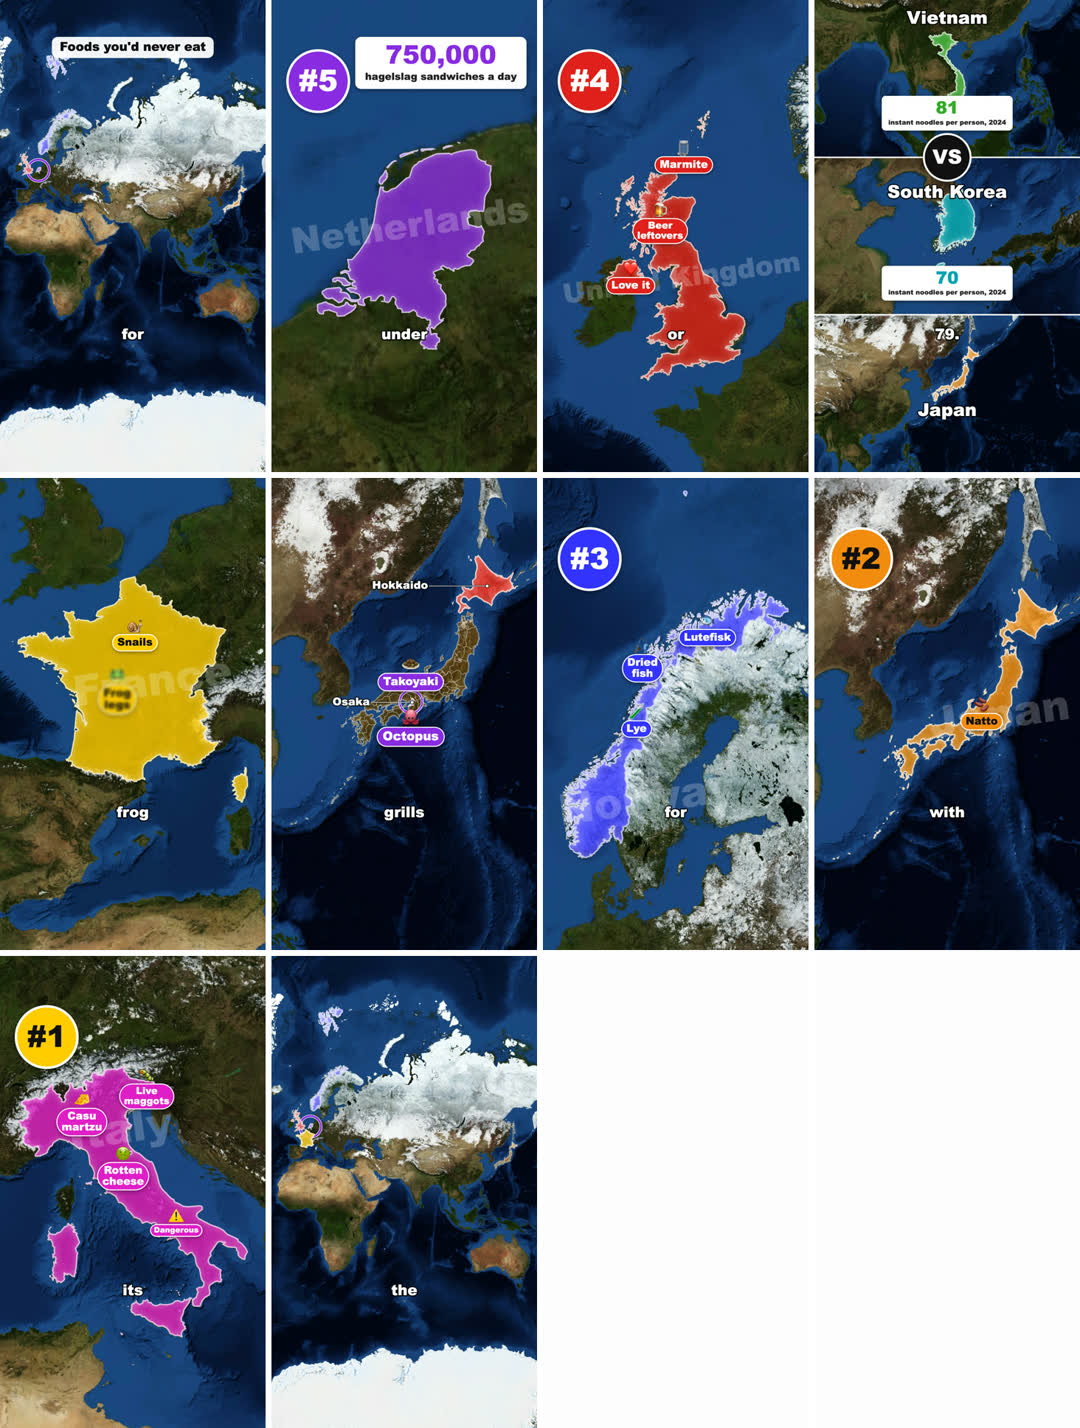
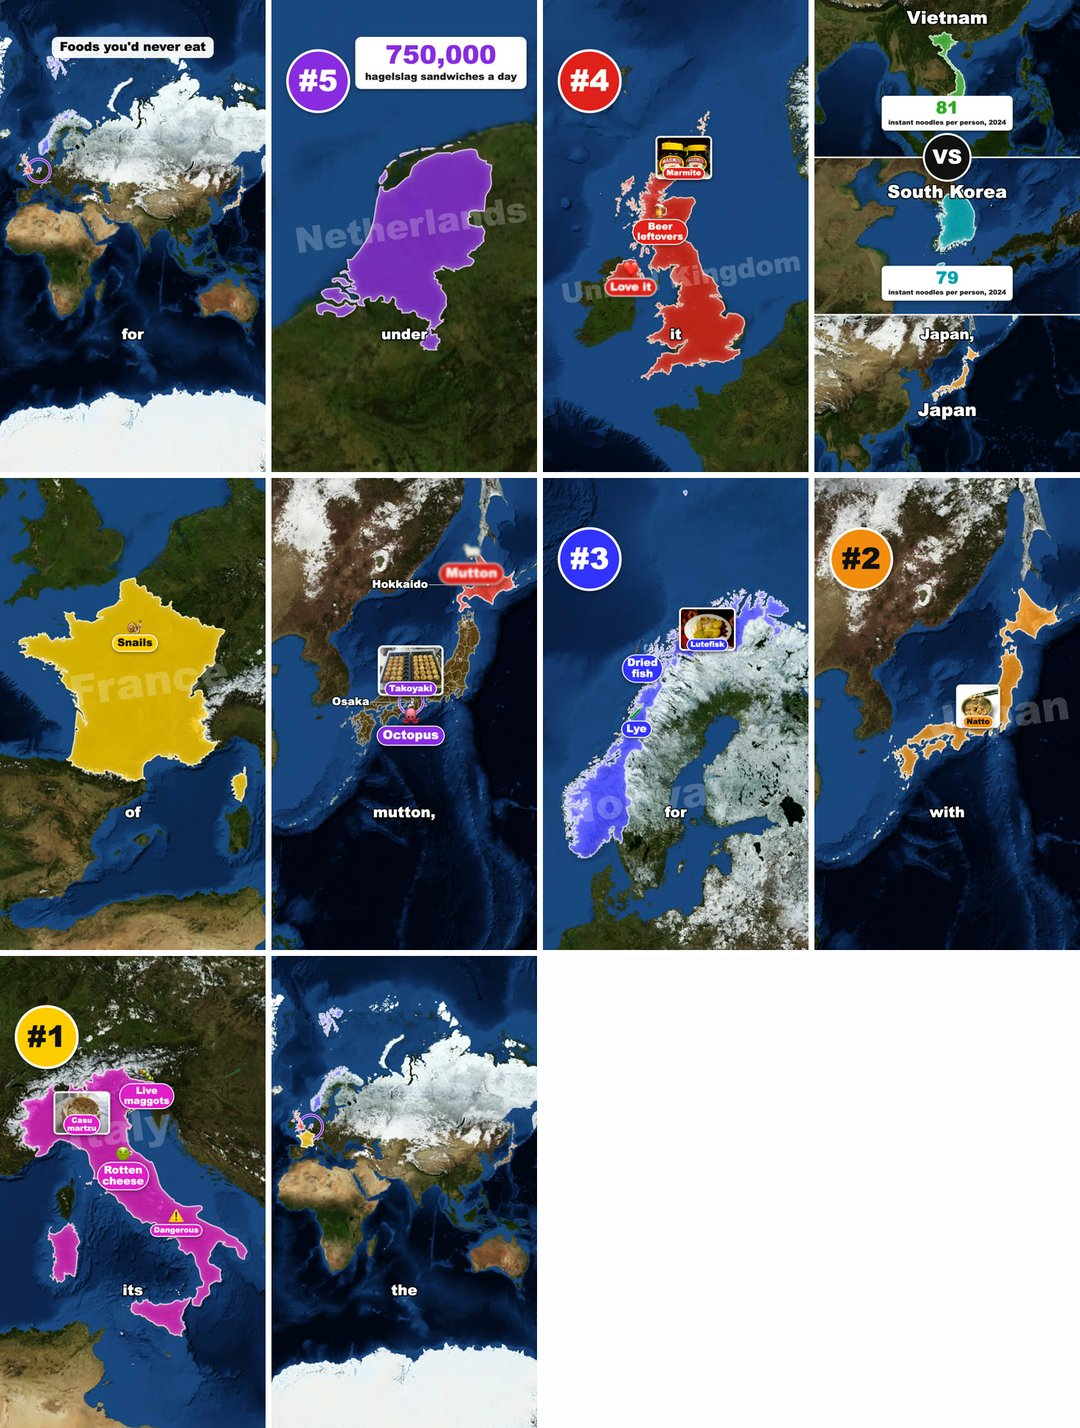
mapreel: the food example shows real Commons images and builds end to end with a real voice
Marmite, takoyaki, lutefisk, natto and casu martzu are free Wikimedia Commons photos
chosen with find_images. food.json keeps the fake voice and storyboard mode, and
examples/mapreel/README.md gives the fake, macOS and Cartesia commands. The render tests
answer every Commons id with a stand-in, cached in the test's folder, so CI never asks
Commons. The docs storyboard shows the photos.

diff --git a/tests/test_mapreel_render.py b/tests/test_mapreel_render.py
@@ -28,6 +28,38 @@ SCRIPT = {
 }
 
 
+@pytest.fixture(autouse=True)
+def offline_commons(tmp_path, monkeypatch):
+    """food.json names Commons images: CI never asks Commons. Each id is a plain stand-in PNG, cached in
+    the test's own folder (never the shared one), and a real request would fail the test."""
+    import io
+
+    from PIL import Image
+
+    from reelmachine.recipes.mapreel import commons, stages
+
+    def no_network(params):
+        raise AssertionError(f"a render test asked Commons: {params}")
+
+    def info(file_id, *, width=1024, fetch=None):
+        name = file_id.removeprefix("commons:").removeprefix("File:")
+        return commons.ImageHit(id=f"commons:File:{name}", title=name, thumb_url=f"https://test.invalid/{name}",
+                                url=f"https://test.invalid/{name}", width=400, height=300, mime="image/png",
+                                licence="CC0", licence_url=None, attribution="test", permitted=True,
+                                restrictions=None)
+
+    def download(ref, **kwargs):
+        assert ref.startswith("https://test.invalid/"), ref
+        out = io.BytesIO()
+        Image.new("RGB", (400, 300), (200, 120, 40)).save(out, format="PNG")
+        return out.getvalue(), "image/png"
+
+    monkeypatch.setattr(commons, "_http_json", no_network)
+    monkeypatch.setattr(commons, "info", info)
+    monkeypatch.setattr(stages, "_download", download)
+    monkeypatch.setattr(stages, "_image_cache", lambda ctx: tmp_path / "commons")
+
+
 def _build(tmp_path, inputs):
     settings = dataclasses.replace(SETTINGS, workdir=tmp_path / "work", outdir=tmp_path / "out", tts="fake")
     engine = Engine(settings)  # real map data in the shared cache: downloaded once on first run

diff --git a/tests/test_mapreel_probe.py b/tests/test_mapreel_probe.py
@@ -241,6 +241,8 @@ def test_the_food_example_uses_every_shot_with_sources_and_passes_every_lint_rul
     items = [it for s in food["segments"] for it in
              [*s.get("items", []), *(i for r in s.get("regions", []) for i in r.get("items", []))]]
     assert items and all(it.get("emoji") for it in items)
+    images = [it["image"] for it in items if it.get("image")]
+    assert len(images) >= 3 and all(i.startswith("commons:File:") for i in images)  # real Commons photos
     stats = [st for s in food["segments"] for st in [*([s["stat"]] if s.get("stat") else []), *s.get("stats", [])]]
     assert stats and all(st.get("source", "").startswith("https://") for st in stats)
     report = _strict(tmp_path, food)

diff --git a/examples/mapreel/README.md b/examples/mapreel/README.md
@@ -1,0 +1,56 @@
+# mapreel examples
+
+Two scripts for the `mapreel` recipe. See [docs/MAPREEL.md](../../docs/MAPREEL.md) for the
+model and the agent workflow.
+
+- `food.json`: "Foods you'd never eat". A ranked countdown with a versus, a country and a
+  regions segment. Five items show real Wikimedia Commons photos: Marmite, takoyaki,
+  lutefisk, natto and casu martzu. Their licences go to `sources.md`.
+- `brands.json`: five countries and their brands, as text badges.
+
+Both files keep `"voice": "fake:default"` and `food.json` keeps `"mode": "storyboard"`,
+so probes and CI never call a voice. Pick the voice on the command line instead. Later
+`-i` values win. Always set `REEL_TTS` on the command line too, because it overrides
+whatever `.env` sets.
+
+## Fake voice (free; only the map data and images come from the network)
+
+The stills and `sources.md` only, in under a minute:
+
+```bash
+REEL_TTS=fake REEL_HYPERFRAMES_WORKERS=1 uv run reel run mapreel -i @examples/mapreel/food.json
+```
+
+The video with one tone per word instead of a voice, to check timing and layout:
+
+```bash
+REEL_TTS=fake REEL_HYPERFRAMES_WORKERS=1 uv run reel run mapreel \
+  -i @examples/mapreel/food.json -i '{"mode": "build"}'
+```
+
+## macOS voice (free, local)
+
+A real voice from macOS `say`. Use this to watch a finished reel on a Mac:
+
+```bash
+REEL_TTS=macos REEL_HYPERFRAMES_WORKERS=1 uv run reel run mapreel \
+  -i @examples/mapreel/food.json -i '{"mode": "build", "voice": "macos:Samantha"}'
+```
+
+`say -v '?'` lists the other voices.
+
+## Cartesia voice (production, billed per character)
+
+Needs `CARTESIA_API_KEY`. `<voice-id>` is a voice's id from the Cartesia voice library:
+
+```bash
+REEL_TTS=cartesia REEL_HYPERFRAMES_WORKERS=1 uv run reel run mapreel \
+  -i @examples/mapreel/food.json -i '{"mode": "build", "voice": "cartesia:<voice-id>"}'
+```
+
+Run `probe` first: `details.cost.ttsCharacters` is what the voice will bill.
+
+Each build writes `reel.mp4`, `storyboard.jpg` and `sources.md` under `out/`
+(`REEL_OUTDIR`). The first build downloads the map data and the Commons images into
+the shared cache; later builds reuse them. Paste `sources.md` into the video
+description: it credits every fact's source and every image's author and licence.

diff --git a/docs/MAPREEL.md b/docs/MAPREEL.md
@@ -35,8 +35,9 @@ encoder: slower, but light on memory. The first run downloads the map data (see
 [Data and licences](#data-and-licences)).
 
 Two example scripts ship with the repo: `examples/mapreel/food.json` (a ranked countdown,
-a versus, a regions segment) and `examples/mapreel/brands.json` (five countries and their
-brands).
+a versus, a regions segment, five Wikimedia Commons photos) and `examples/mapreel/brands.json`
+(five countries and their brands). [examples/mapreel/README.md](../examples/mapreel/README.md)
+has the commands for the fake, macOS and Cartesia voices.
 
 ## The agent workflow
 
